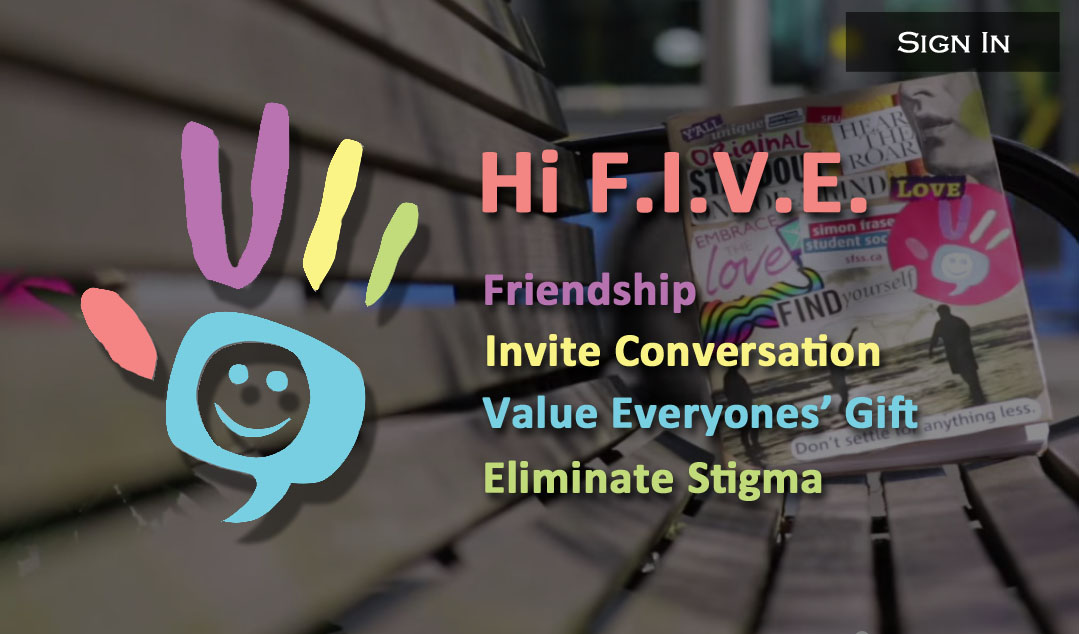
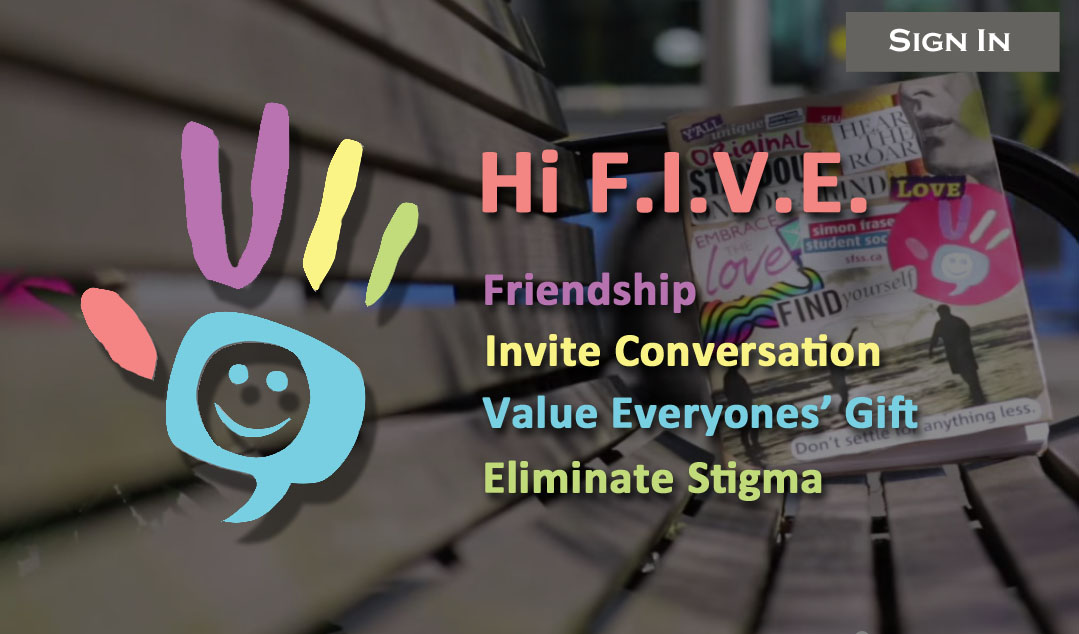
added image map to 'signin' in the header photo on the main page

Changed region(s): [[0.7646, 0.0, 1.0, 0.1199]]

diff --git a/mainPage.html b/mainPage.html
@@ -32,7 +32,11 @@ $(function(){    // this is the shorthand for document.ready
 	<!--first box-->
 	<div id="header">
 		<div id="header-interior">
-            <img src="images/hi5header.jpg" width="702" height=350" alt="HeaderPhoto>
+            <img src="images/hi5header.jpg" width="702" height=350" alt="HeaderPhoto" usemap="#signin">
+
+               <map name="signin">
+                   <area shape="rect" coords="550,8,689,40" href="login.html" alt="login">
+               </map>
 		</div>
 		<div id="social-link">
 		</div>
